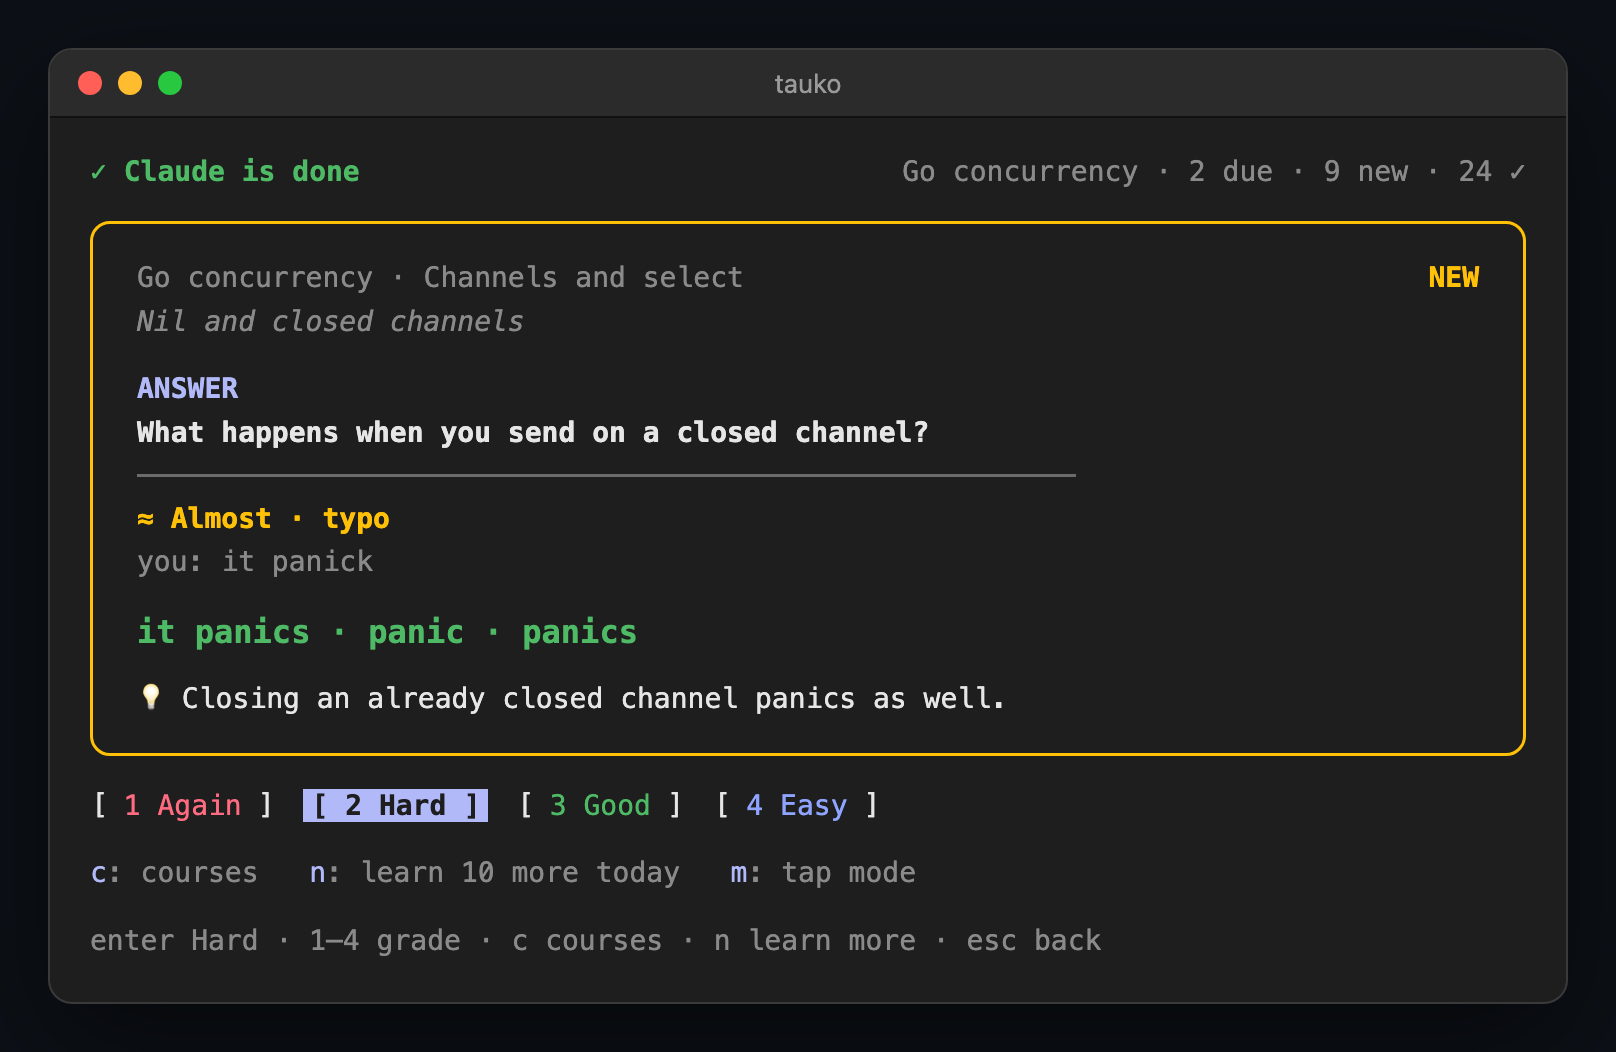
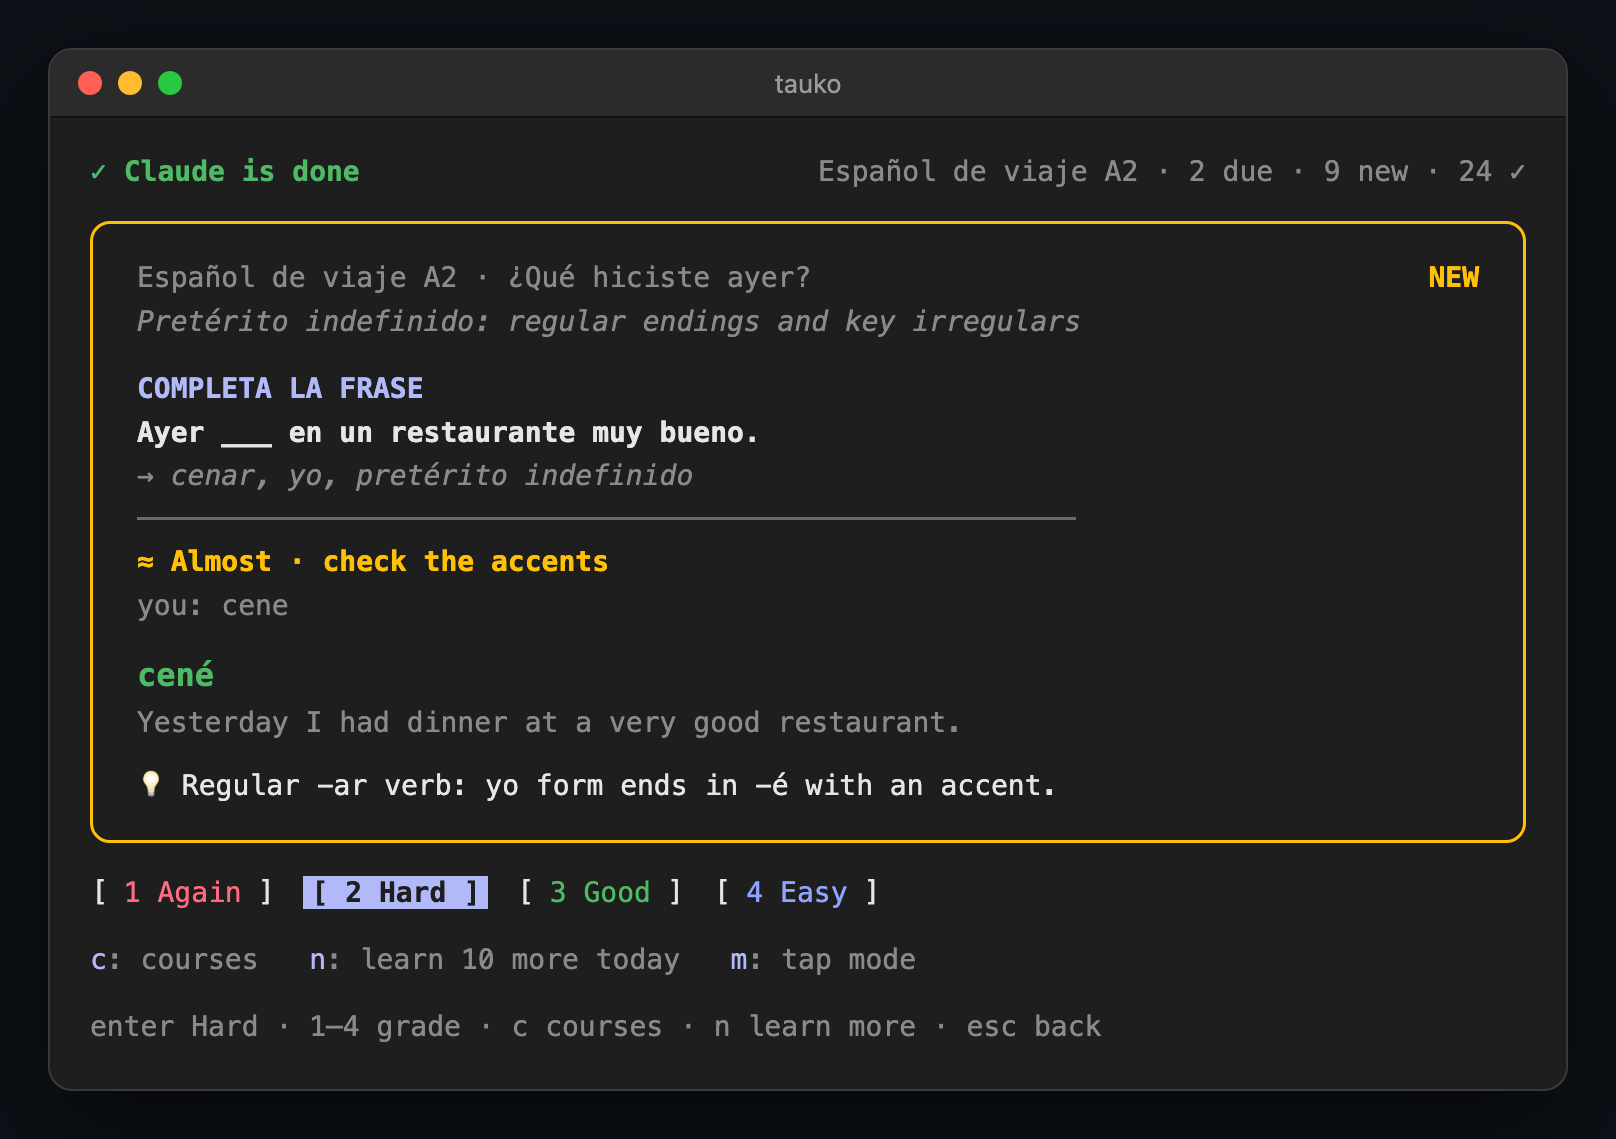
Everyday examples: a Spanish gallery course and Spanish mockups
- examples/courses/spanish-a2-travel: tickets, hotels and the pretérito
  indefinido, generated with tauko gen and reviewed by hand.
- README images rebuilt around real cards from it (a missing accent is
  "almost"), with a non-technical Claude task in the hero.
- README examples move from AWS/Postgres/Kubernetes to Spanish, history
  and photography; quick start installs the Spanish course.

diff --git a/docs/img/src/hero.html b/docs/img/src/hero.html
@@ -1,26 +1,26 @@
 <!doctype html><html><head><meta charset="utf-8"><link rel="stylesheet" href="style.css"></head><body>
 <div class="win">
-  <div class="bar"><span class="dot" style="background:#ff5f57"></span><span class="dot" style="background:#febc2e"></span><span class="dot" style="background:#28c840"></span><span class="title">payments-api — claude</span></div>
+  <div class="bar"><span class="dot" style="background:#ff5f57"></span><span class="dot" style="background:#febc2e"></span><span class="dot" style="background:#28c840"></span><span class="title">my-app — claude</span></div>
   <div class="split">
     <div class="left">
-<pre><span class="dim">&gt;</span> add retries with exponential backoff to the payments client
+<pre><span class="dim">&gt;</span> add a dark mode toggle to the settings page
 
-<span class="claude">⏺</span> I'll start by reading the client and its tests.
+<span class="claude">⏺</span> I'll look at the settings page and the theme setup first.
 
-<span class="claude">⏺</span> <span class="b">Read</span>(internal/payments/client.go)
-  <span class="dim">⎿  Read 214 lines</span>
+<span class="claude">⏺</span> <span class="b">Read</span>(src/settings/SettingsPage.tsx)
+  <span class="dim">⎿  Read 128 lines</span>
 
-<span class="claude">⏺</span> <span class="b">Read</span>(internal/payments/client_test.go)
-  <span class="dim">⎿  Read 96 lines</span>
+<span class="claude">⏺</span> <span class="b">Read</span>(src/theme.ts)
+  <span class="dim">⎿  Read 54 lines</span>
 
-<span class="claude">⏺</span> The client calls the API once per request. I'll wrap
-  <span class="b">Do</span> in a retry loop with jittered backoff and keep
-  non-idempotent POSTs out of it.
+<span class="claude">⏺</span> The colors already come from one theme file, so I'll add
+  a dark palette there, a toggle on the settings page, and
+  remember the choice for next time.
 
-<span class="claude">⏺</span> <span class="b">Update</span>(internal/payments/client.go)
-  <span class="dim">⎿  Updated with 41 additions and 6 removals</span>
+<span class="claude">⏺</span> <span class="b">Update</span>(src/theme.ts)
+  <span class="dim">⎿  Updated with 38 additions and 4 removals</span>
 
-<span class="claude">✻ Brewing… <span class="dim">(52s · esc to interrupt)</span></span></pre>
+<span class="claude">✻ Brewing… <span class="dim">(47s · esc to interrupt)</span></span></pre>
       <div class="promptbox"><pre><span class="dim">&gt;</span> <span class="cursor"> </span></pre></div>
       <pre class="dim">📖 14 to do · 6 today · 🔥3</pre>
     </div>
@@ -28,14 +28,14 @@
       <span class="x">×</span>
       <div class="row"><span class="claude b">● Claude is working · your turn</span><span class="dim" style="margin-right:22px">3 due · 12 new · 18 ✓</span></div>
       <div class="card">
-        <div class="row"><span class="dim">Kubernetes networking · Services and Cluster DNS</span><span class="yellow b">NEW</span></div>
-        <div class="dim i">Stable names for changing pods</div>
+        <div class="row"><span class="dim">Español de viaje A2 · En la estación y en el hotel</span><span class="yellow b">NEW</span></div>
+        <div class="dim i">Polite requests with 'quisiera'</div>
         <div class="spacer"></div>
-        <div class="lav b">ANSWER</div>
-        <div class="b">Which Service type do you get if you don't set spec.type?</div>
-        <div class="dim i">→ one word</div>
+        <div class="lav b">RESPONDE</div>
+        <div class="b">How do you ask 'What time does the train leave?' in Spanish?</div>
+        <div class="dim i">→ ¿A qué hora...?</div>
       </div>
-      <pre class="input"><span class="lav b">›</span>: Cluster<span class="cursor">I</span>       <span class="dim">⏎ check</span></pre>
+      <pre class="input"><span class="lav b">›</span>: ¿A qué hora sa<span class="cursor">l</span>   <span class="dim">⏎ check</span></pre>
       <div class="spacer"></div>
       <pre class="dim">courses (tab)   learn 10 more today   tap mode</pre>
       <div class="spacer"></div>

diff --git a/docs/img/src/gen.html b/docs/img/src/gen.html
@@ -2,30 +2,30 @@
 <style>.win{width:860px}.term{padding:16px 20px 22px}</style></head><body>
 <div class="win">
   <div class="bar"><span class="dot" style="background:#ff5f57"></span><span class="dot" style="background:#febc2e"></span><span class="dot" style="background:#28c840"></span><span class="title">~ — zsh</span></div>
-<pre class="term"><span class="green">~</span> <span class="b">tauko gen "Kubernetes networking" -level intermediate</span>
+<pre class="term"><span class="green">~</span> <span class="b">tauko gen "Spanish for travellers: station, hotel, past tense" -level A2</span>
 <span class="blue">→ Drafting the course with Claude (about a minute)</span>
   <span class="green">✓</span> 2 units, 20 cards
 <span class="blue">→ Verifying every answer with a second, independent pass</span>
-  <span class="green">✓</span> 4 fixes:
-      <span class="dim">- TLS Secret card: 'must have' → 'intended for' (the API doesn't enforce the type)</span>
-      <span class="dim">- DNS port card: added answers '53/UDP', '53/TCP'</span>
-      <span class="dim">- podSelector card: added spacing variant 'podSelector: { }'</span>
-      <span class="dim">- NetworkPolicy note: isolation applies per direction (ingress/egress)</span>
+  <span class="green">✓</span> 2 fixes:
+      <span class="dim">- 'A qué hora' card: removed answers spelled 'que' without the accent,</span>
+      <span class="dim">  because they are misspellings</span>
+      <span class="dim">- 'salir' note: it's irregular in the future and imperative too, not only 'salgo'</span>
 <span class="blue">→ Checking the course</span>
   <span class="green">✓</span> valid
 
-<span class="b">Kubernetes networking</span> <span class="dim">(kubernetes-networking)</span>
-   1. Services and Cluster DNS           <span class="dim">10 cards</span>
-   2. Ingress and NetworkPolicies        <span class="dim">10 cards</span>
+<span class="b">Español de viaje A2</span> <span class="dim">(spanish-travel)</span>
+   1. En la estación y en el hotel       <span class="dim">10 cards</span>
+   2. ¿Qué hiciste ayer?                 <span class="dim">10 cards</span>
 
 <span class="b">Sample cards</span>
-  Which Service type do you get if you don't set spec.type?  <span class="green">→ ClusterIP</span>
-  By default, NodePort Services get a port in 30000-___.  <span class="green">→ 32767</span>
+  ___ un billete para Sevilla, por favor.  <span class="green">→ Quisiera</span>
+  ¿El desayuno ___ incluido?  <span class="green">→ está</span>
+  Anoche ___ al museo.  <span class="green">→ fuimos</span>
 
-Install it to ~/.tauko/courses/kubernetes-networking? [Y/n] y
-  <span class="green">✓</span> installed ~/.tauko/courses/kubernetes-networking
+Install it to ~/.tauko/courses/spanish-travel? [Y/n] y
+  <span class="green">✓</span> installed ~/.tauko/courses/spanish-travel
   <span class="green">✓</span> server restarted
 
-Study it: press <span class="b">c</span> in the tauko pane, or run <span class="b">tauko course kubernetes-networking</span></pre>
+Study it: press <span class="b">c</span> in the tauko pane, or run <span class="b">tauko course spanish-travel</span></pre>
 </div>
 </body></html>

diff --git a/docs/img/src/answer.html b/docs/img/src/answer.html
@@ -3,19 +3,21 @@
 <div class="win">
   <div class="bar"><span class="dot" style="background:#ff5f57"></span><span class="dot" style="background:#febc2e"></span><span class="dot" style="background:#28c840"></span><span class="title">tauko</span></div>
   <div class="right" style="padding:16px 20px 20px">
-      <div class="row"><span class="green b">✓ Claude is done</span><span class="dim">Go concurrency · 2 due · 9 new · 24 ✓</span></div>
+      <div class="row"><span class="green b">✓ Claude is done</span><span class="dim">Español de viaje A2 · 2 due · 9 new · 24 ✓</span></div>
       <div class="card almost">
-        <div class="row"><span class="dim">Go concurrency · Channels and select</span><span class="yellow b">NEW</span></div>
-        <div class="dim i">Nil and closed channels</div>
+        <div class="row"><span class="dim">Español de viaje A2 · ¿Qué hiciste ayer?</span><span class="yellow b">NEW</span></div>
+        <div class="dim i">Pretérito indefinido: regular endings and key irregulars</div>
         <div class="spacer"></div>
-        <div class="lav b">ANSWER</div>
-        <div class="b">What happens when you send on a closed channel?</div>
+        <div class="lav b">COMPLETA LA FRASE</div>
+        <div class="b">Ayer ___ en un restaurante muy bueno.</div>
+        <div class="dim i">→ cenar, yo, pretérito indefinido</div>
         <div class="rule"></div>
-        <div class="yellow b">≈ Almost · typo</div>
-        <div class="dim">you: it panick</div>
+        <div class="yellow b">≈ Almost · check the accents</div>
+        <div class="dim">you: cene</div>
         <div class="spacer"></div>
-        <div class="green b" style="font-size:16px">it panics  ·  panic  ·  panics</div>
-        <div class="note">💡 Closing an already closed channel panics as well.</div>
+        <div class="green b" style="font-size:16px">cené</div>
+        <div class="dim">Yesterday I had dinner at a very good restaurant.</div>
+        <div class="note">💡 Regular -ar verb: yo form ends in -é with an accent.</div>
       </div>
       <pre class="btns"><span>[ <span class="red">1 Again</span> ]</span><span class="primary">[ 2 Hard ]</span><span>[ <span class="green">3 Good</span> ]</span><span>[ <span class="blue">4 Easy</span> ]</span></pre>
       <div class="spacer"></div>

diff --git a/README.md b/README.md
@@ -12,17 +12,17 @@
   <img alt="platforms" src="https://img.shields.io/badge/macOS%20%7C%20Linux-lightgrey">
 </p>
 
-<p align="center"><img src="docs/img/hero.png" alt="Claude Code working on the left, a tauko flashcard in a pane on the right"></p>
+<p align="center"><img src="docs/img/hero.png" alt="Claude Code working on the left, a Spanish flashcard in the tauko pane on the right"></p>
 
 You send Claude a prompt and wait: thirty seconds, two minutes, fifty times a day. That's an hour of
 dead time, and it usually goes to the phone.
 
 **tauko** puts that time to work. When you press enter, a card opens next to the chat, on whatever
-you want to get better at: a language, Kubernetes, Go, AWS, your team's codebase. Answer it, maybe
+you want to get better at: Spanish, world history, photography, a certification, your team's codebase. Answer it, maybe
 another one. When Claude finishes, tauko says so and you're back. Spaced repetition (FSRS) picks the
 card you're about to forget, so those half-minutes turn into things you remember.
 
-Need a course? Ask for one: `tauko gen "Kubernetes networking"` writes it with Claude, checks every
+Need a course? Ask for one: `tauko gen "Spanish for travellers"` writes it with Claude, checks every
 answer with a second pass, and installs it.
 
 ## Quick start
@@ -34,9 +34,9 @@ curl -fsSL https://raw.githubusercontent.com/ralihachev/tauko/main/install.sh | 
 Then get something to learn:
 
 ```sh
-tauko gen "Postgres query tuning" -level intermediate   # generate a course about anything
-tauko add                                               # or browse the gallery
-tauko add go-concurrency                                #   and install one
+tauko gen "Italian for beginners" -level A1   # generate a course about anything
+tauko add                                     # or browse the gallery
+tauko add spanish-a2-travel                   #   and install one
 ```
 
 Start a new Claude Code session and send any prompt. That's all.
@@ -73,7 +73,7 @@ git clone https://github.com/ralihachev/tauko && cd tauko && make install && tau
 
 Answer, see what you missed, grade it, next:
 
-<p align="center"><img src="docs/img/answer.png" alt="An answered tauko card: almost right, the accepted answers, a note, and the grade buttons" width="620"></p>
+<p align="center"><img src="docs/img/answer.png" alt="An answered Spanish card: almost right (missing accent), the answer, translation, grammar note and grade buttons" width="620"></p>
 
 ## What the cards look like
 
@@ -81,13 +81,13 @@ A course mixes five kinds of cards:
 
 | Kind | Example prompt | You answer |
 |---|---|---|
-| **recognize** | idempotent | same result however often it runs |
-| **produce** | the default Service type, reachable only in-cluster | ClusterIP |
-| **fill in** | By default, NodePort Services get a port in the range 30000-___. | 32767 |
-| **rewrite** | Rewrite in the past tense: *Yo como pan.* | Yo comí pan. |
-| **question** | What happens when you send on a closed channel? | it panics |
+| **recognize** | el andén | platform |
+| **produce** | return ticket | el billete de ida y vuelta |
+| **fill in** | Ayer ___ en un restaurante muy bueno. *(cenar, yo, past)* | cené |
+| **rewrite** | Make it polite: *Quiero una habitación individual.* | Quisiera una habitación individual. |
+| **question** | In which year did the Berlin Wall fall? | 1989 |
 
-Open questions with no single right answer ("When is an unbuffered channel the better choice?") are
+Open questions with no single right answer ("Why did the Berlin Wall fall?") are
 **self-graded**: you write your answer, see a model answer next to it, and grade yourself.
 
 ## Get courses
@@ -95,9 +95,9 @@ Open questions with no single right answer ("When is an unbuffered channel the b
 ### Generate one with Claude
 
 ```sh
-tauko gen "Kubernetes networking" -level intermediate
-tauko gen "Spanish A2: past tenses" -units 4
-tauko gen "our payments service" -from docs/payments.md    # text, markdown or PDF
+tauko gen "Spanish for travellers" -level A2
+tauko gen "World history: the Cold War" -units 4
+tauko gen "my driving theory notes" -from notes.pdf     # text, markdown or PDF
 ```
 
 `tauko gen` uses Claude Code (`claude -p`, on your existing plan) in three steps:
@@ -107,7 +107,7 @@ tauko gen "our payments service" -from docs/payments.md    # text, markdown or P
 
 On confirm, it installs the course and reloads the server. A 2-unit course takes about a minute:
 
-<p align="center"><img src="docs/img/gen.png" alt="tauko gen output: drafting, four fixes from the verification pass, the course outline and install" width="720"></p>
+<p align="center"><img src="docs/img/gen.png" alt="tauko gen output for a Spanish course: drafting, two fixes from the verification pass, the course outline and install" width="720"></p>
 
 Generated courses are a draft, not a textbook. If a card looks wrong, edit it in `~/.tauko/courses/`
 and run `tauko restart`.
@@ -116,11 +116,12 @@ and run `tauko restart`.
 
 ```sh
 tauko add                          # list the gallery
-tauko add kubernetes-networking    # install a course
+tauko add spanish-a2-travel        # install a course
 ```
 
 | Course | Cards |
 |---|---|
+| [Español de viaje A2](examples/courses/spanish-a2-travel): tickets, hotels, and saying what you did yesterday | 20 |
 | [Go concurrency](examples/courses/go-concurrency): channels, select, sync, context | 20 |
 | [Kubernetes networking](examples/courses/kubernetes-networking): Services, DNS, Ingress, NetworkPolicies | 20 |
 
@@ -128,23 +129,23 @@ Made a good one? Add it to `examples/courses` and open a pull request.
 
 ### Write your own
 
-A course is a folder with two kinds of JSON file. Make `~/.tauko/courses/aws-iam/course.json`:
+A course is a folder with two kinds of JSON file. Make `~/.tauko/courses/photo/course.json`:
 
 ```json
-{ "id": "aws-iam", "title": "AWS IAM" }
+{ "id": "photo", "title": "Photography basics" }
 ```
 
-…and `~/.tauko/courses/aws-iam/decks/01-policies.json`:
+…and `~/.tauko/courses/photo/decks/01-exposure.json`:
 
 ```json
 {
-  "id": "aws-iam-01",
-  "title": "Policies",
+  "id": "photo-01",
+  "title": "Exposure",
   "drills": [
-    { "id": "aws-iam-01-q1", "type": "qa", "prompt": "An explicit Deny and an Allow both match. What wins?",
-      "answers": ["the deny", "deny", "explicit deny"] },
-    { "id": "aws-iam-01-q2", "type": "cloze", "prompt": "A role's ___ policy says who may assume it.",
-      "hint": "one word", "answers": ["trust"] }
+    { "id": "photo-01-q1", "type": "qa", "prompt": "Which setting mostly decides how much of the photo is in focus?",
+      "answers": ["aperture", "the aperture", "f-stop"] },
+    { "id": "photo-01-q2", "type": "cloze", "prompt": "A fast shutter speed ___ motion.",
+      "hint": "freezes or blurs?", "answers": ["freezes"] }
   ]
 }
 ```
@@ -175,8 +176,8 @@ The status line shows what's left: `📖 14 to do · 6 today · 🔥3`.
 ```sh
 tauko                          # learn (type mode)
 tauko learn -mode tap          # recall, then reveal
-tauko course                   # list courses; tauko course aws-iam to switch
-tauko quiz -course aws-iam     # 10 questions, scored
+tauko course                   # list courses; tauko course photo to switch
+tauko quiz -course photo       # 10 questions, scored
 tauko stats                    # today, streak, totals
 ```
 
